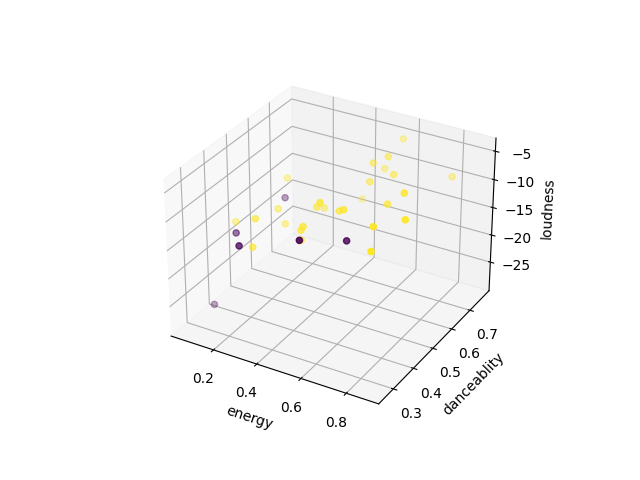
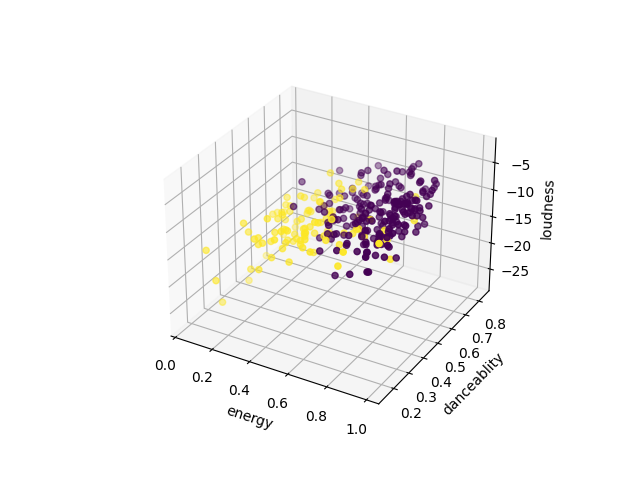
Fixed playlist descriptions and switched labels

diff --git a/app.py b/app.py
@@ -79,7 +79,7 @@ def get_song_data(spotify, songid):
 	'song_popularity' : data['popularity'],
 	'song_id' : songid,
 	}
-
+	
 	print('Recieved Song Data for {}'.format(songid))
 
 
@@ -135,22 +135,21 @@ def to_csv(dictionaries, headers,names):
 
 
 def make_playlist(spotify, username, df, playlist_name):
-
 	hi_name = 'High Energy: ' + playlist_name
 	lo_name = 'Low Energy: ' + playlist_name
 	username = username.replace('spotify:user:','')
 
 	high_energy = spotify.user_playlist_create(user=username,
 											name=hi_name,
-											description= 'High energy songs from' + playlist_name)
+											description= 'https://github.com/sidharthsrinath/spotipy-working')
 	print('Created High Energy Playlist')
 	low_energy = spotify.user_playlist_create(user=username,
 											name=lo_name, 
-											description = 'Low energy songs from' + playlist_name)
+											description = 'https://github.com/sidharthsrinath/spotipy-working')
 	print('Created Low Energy Playlist')
 
-	playlist_1 = df[df['KMeans']==0] #low energy
-	playlist_2 = df[df['KMeans']==1] #high energy
+	playlist_1 = df[df['KMeans']==1] #low energy
+	playlist_2 = df[df['KMeans']==0] #high energy
 
 	id0 = list(playlist_1['song_id']) #low energy
 	id1 = list(playlist_2['song_id']) #high energy
@@ -164,7 +163,8 @@ def make_playlist(spotify, username, df, playlist_name):
 		thisid = x
 		thisidN = thisid.strip()
 		spotify.user_playlist_add_tracks(user = username,playlist_id= high_energy['id'],tracks = [thisidN])
-	print('Added Songs to Low Energy Playlist')
+	print('Added Songs to High Energy Playlist')
+
 
 def change_scope(filename):
 	str = ''
